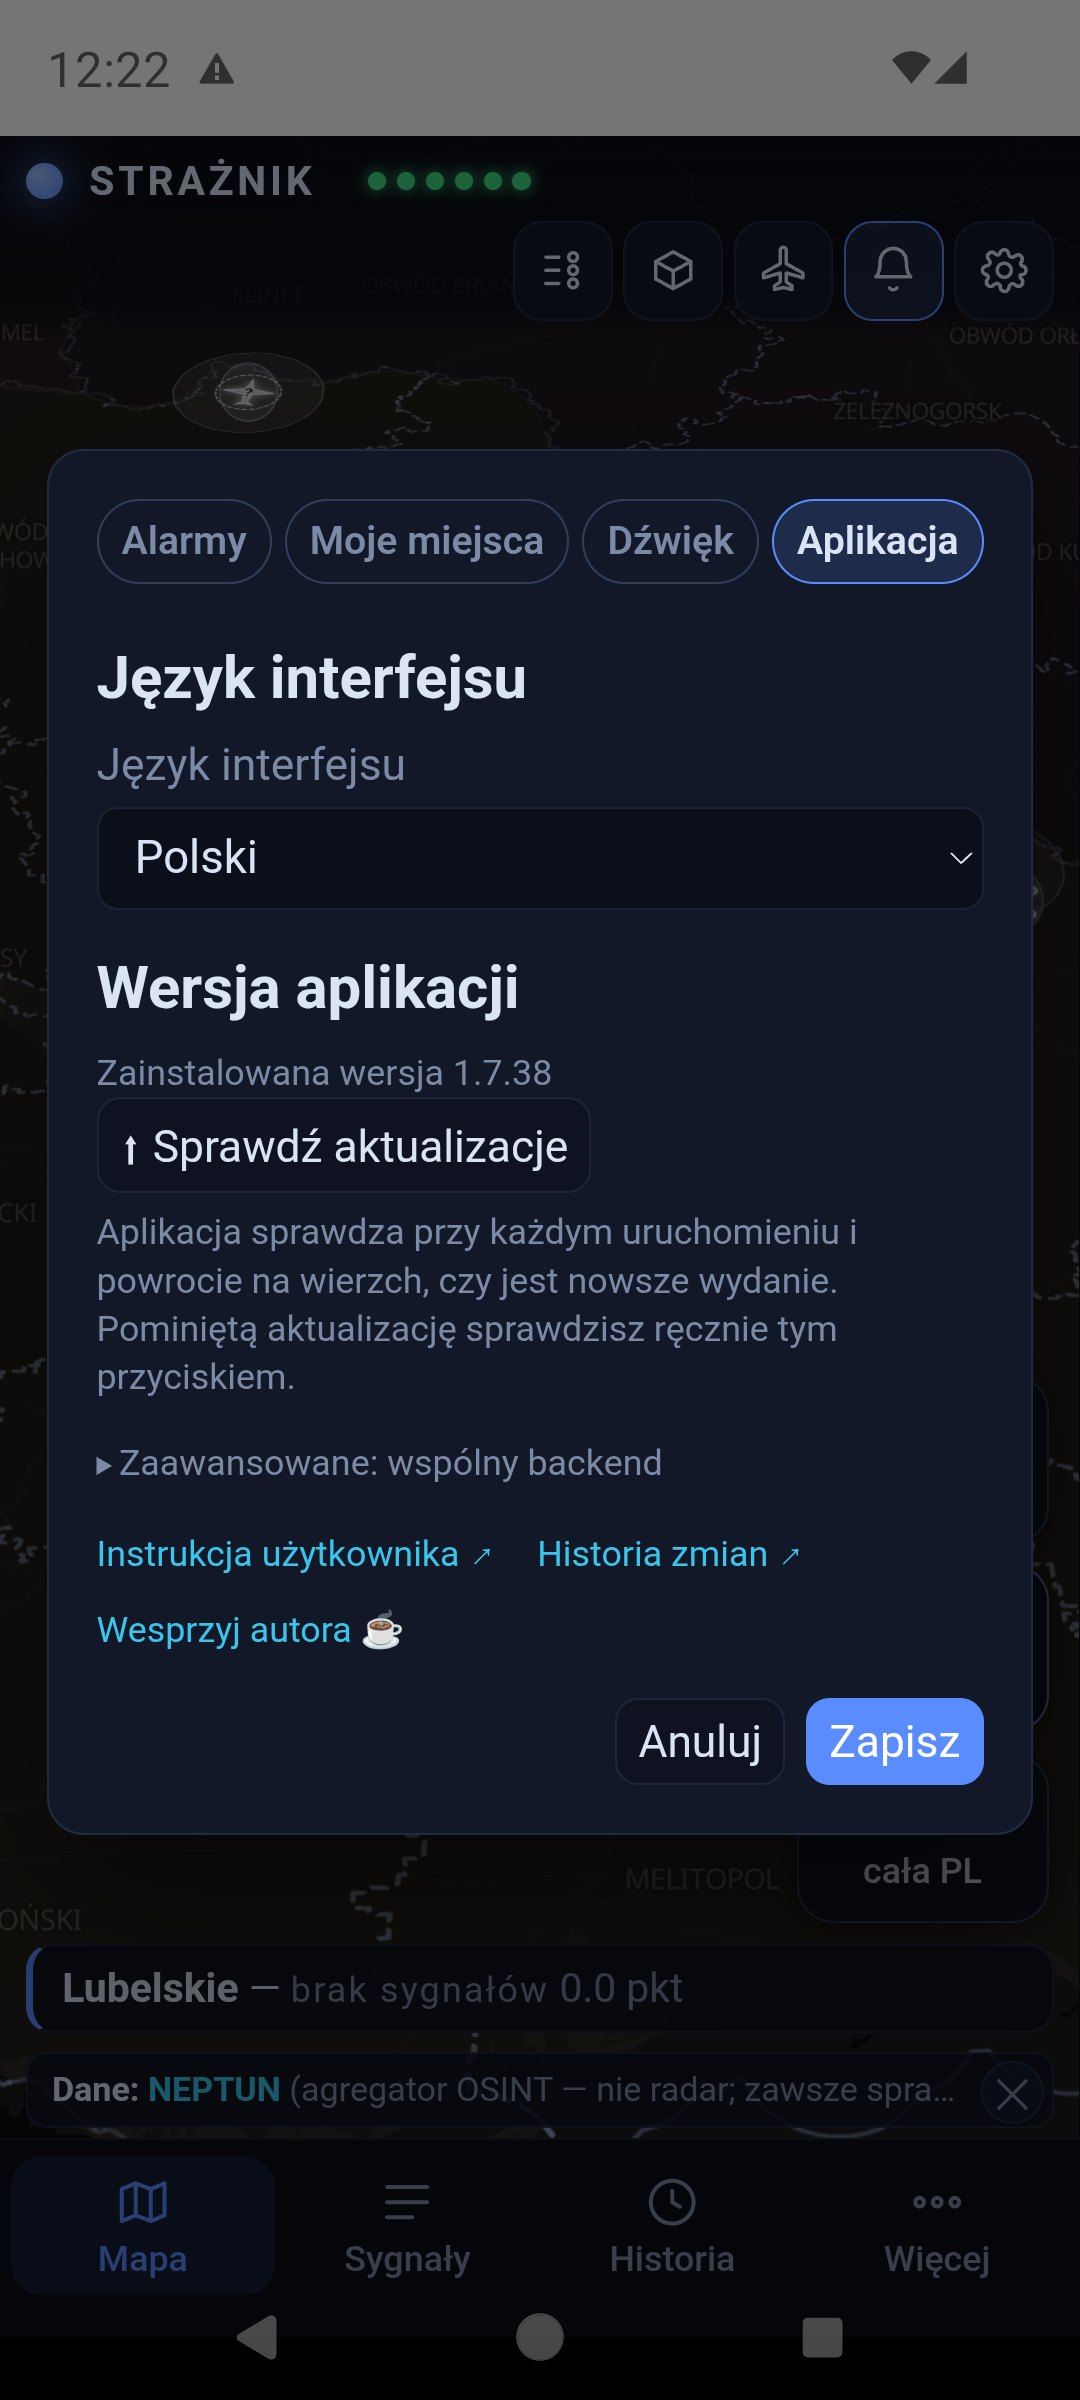
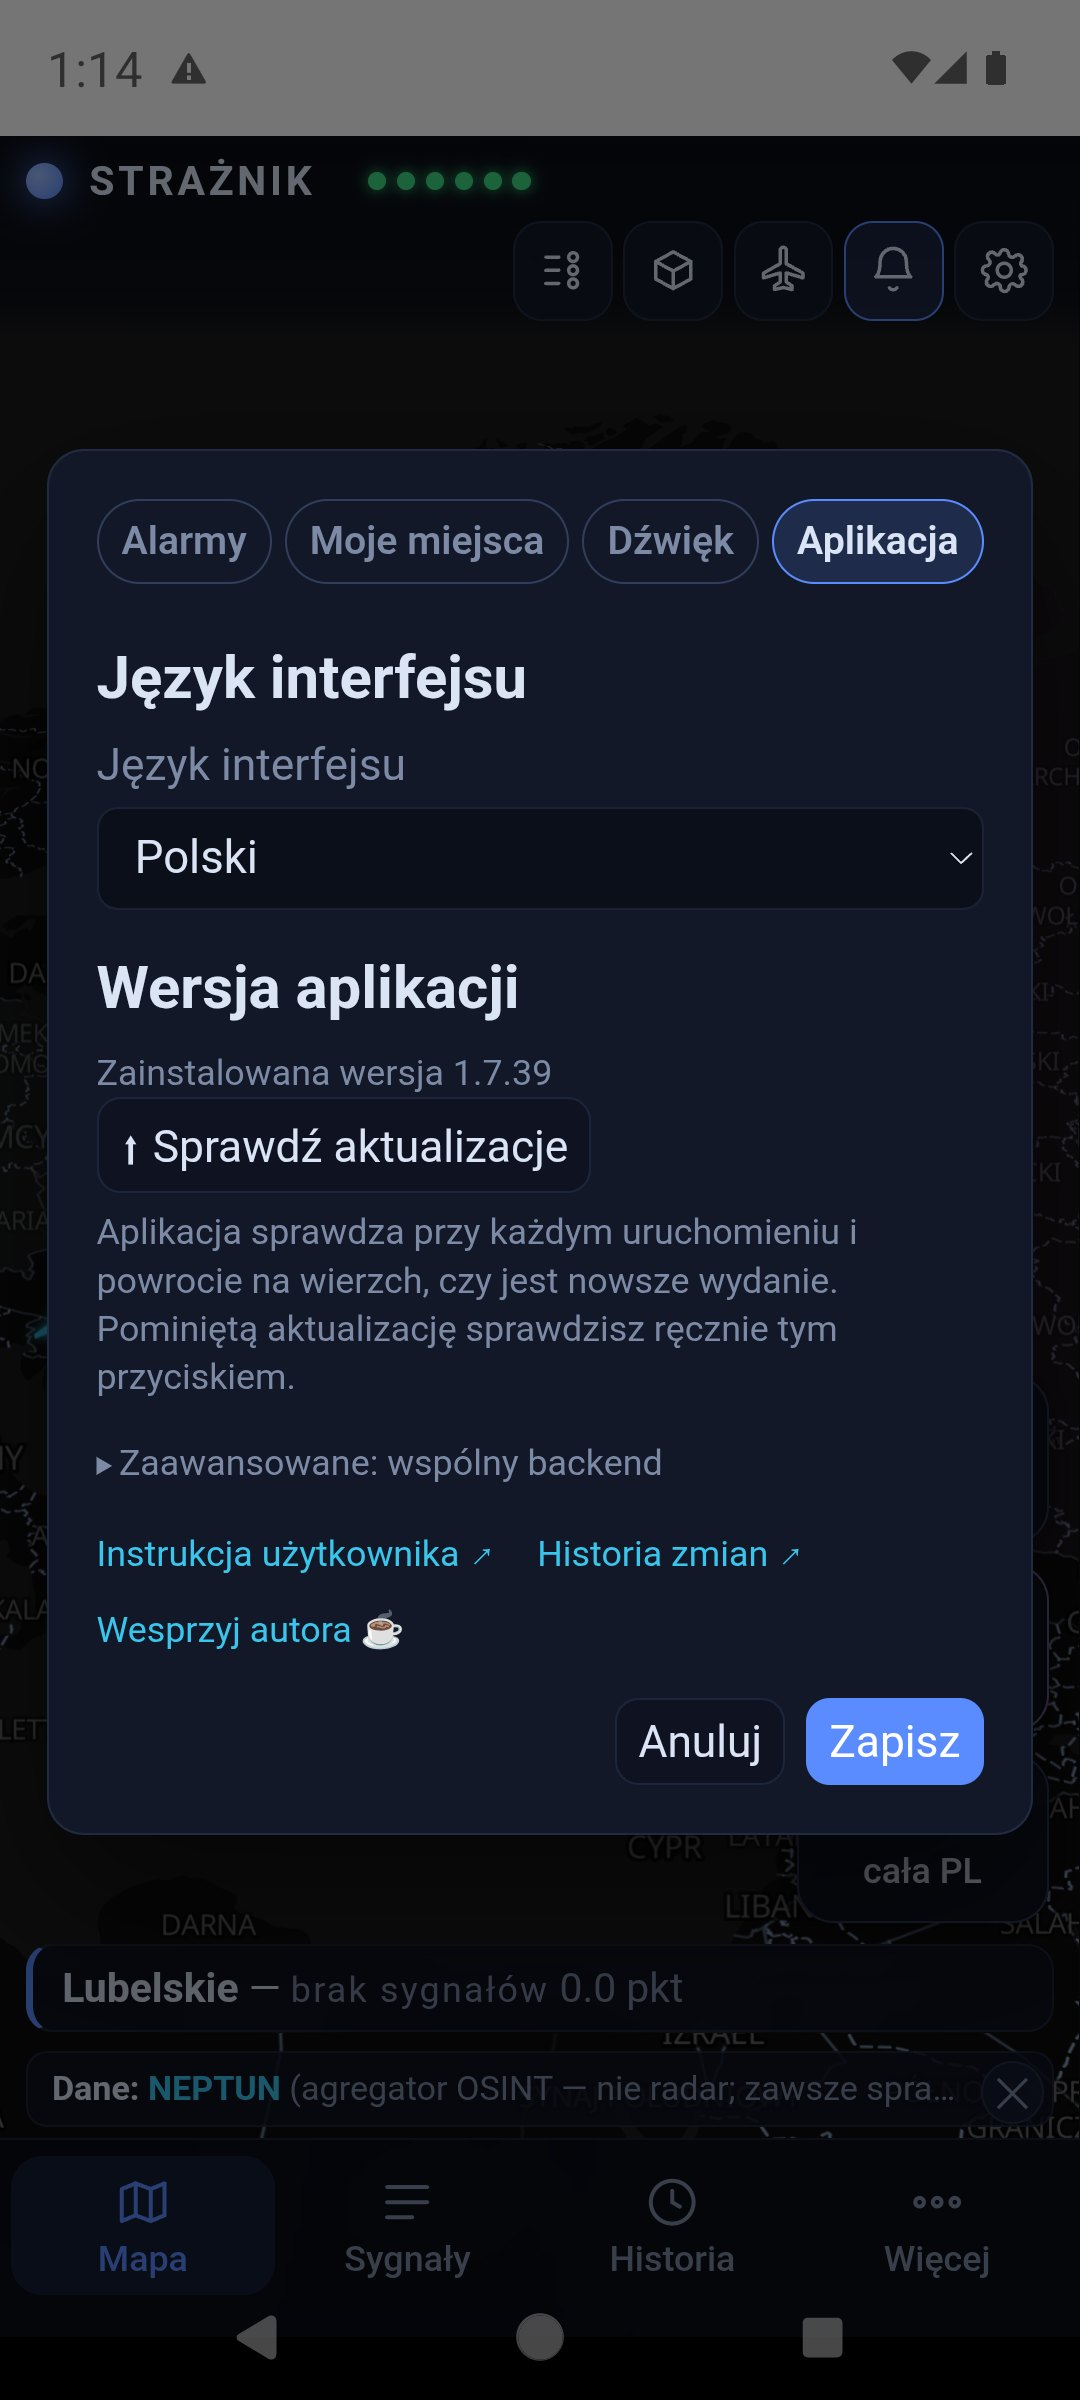
Release 1.7.39: resilience to traffic peaks
The app reconnects after a random delay and, when the server refuses a live
connection with code 1013, polls the ready state every few seconds and returns
to the WebSocket after one to two minutes. Guide, changelog and versionCode 69.

diff --git a/docs/index.html b/docs/index.html
@@ -3,8 +3,8 @@
 <head>
 <meta charset="utf-8">
 <meta name="viewport" content="width=device-width, initial-scale=1">
-<title>Strażnik 1.7.38 — instrukcja użytkownika</title>
-<meta name="description" content="Instrukcja Strażnika 1.7.38: instalacja, Moje miejsca, mapa i strefy PAŻP, panel sygnałów, historia, alarmy, powiadomienia w przeglądarce i punktacja. Zrzuty z aktualnej wersji.">
+<title>Strażnik 1.7.39 — instrukcja użytkownika</title>
+<meta name="description" content="Instrukcja Strażnika 1.7.39: instalacja, Moje miejsca, mapa i strefy PAŻP, panel sygnałów, historia, alarmy, powiadomienia w przeglądarce i punktacja. Zrzuty z aktualnej wersji.">
 <link rel="canonical" href="https://cukierrro.github.io/Straznik/">
 <link rel="alternate" hreflang="pl" href="https://cukierrro.github.io/Straznik/">
 <link rel="alternate" hreflang="en" href="https://cukierrro.github.io/Straznik/en.html">
@@ -33,11 +33,11 @@
   <div class="languages" aria-label="Język instrukcji"><a href="index.html" lang="pl" aria-current="page">PL</a><a href="en.html" lang="en" hreflang="en">EN</a></div>
 </div></nav>
 <header class="hero"><div class="wrap hero-grid">
-  <div><div class="eyebrow">Instrukcja użytkownika · wersja 1.7.38</div>
+  <div><div class="eyebrow">Instrukcja użytkownika · wersja 1.7.39</div>
     <h1>Sytuacja na mapie.<br>Źródła za każdym sygnałem.</h1>
     <p class="lead">Strażnik łączy publiczne informacje o zagrożeniach z powietrza i pokazuje ich punktację dla polskich województw. Działa na Androidzie i w przeglądarce.</p>
     <div class="actions"><a class="button primary" href="https://github.com/cukierrro/Straznik/releases/latest/download/Straznik.apk">↓ Pobierz aplikację</a><a class="button" href="https://straznik.eu">Otwórz mapę</a></div>
-    <p class="fineprint">Instrukcja opisuje wyłącznie bieżącą wersję 1.7.38. Wszystkie zrzuty wykonano 13 września 2026 na Pixelu 7 z Androidem 14, na żywych danych. Co zmieniało się w kolejnych wydaniach, znajdziesz w <a href="zmiany.html">historii zmian</a>. Dotknij zdjęcia, aby otworzyć je w pełnym rozmiarze.</p>
+    <p class="fineprint">Instrukcja opisuje wyłącznie bieżącą wersję 1.7.39. Wszystkie zrzuty wykonano 13 września 2026 na Pixelu 7 z Androidem 14, na żywych danych. Co zmieniało się w kolejnych wydaniach, znajdziesz w <a href="zmiany.html">historii zmian</a>. Dotknij zdjęcia, aby otworzyć je w pełnym rozmiarze.</p>
   </div>
   <a class="shot-link" href="screens/1737/start-pl.jpg"><img src="screens/1737/start-pl.jpg" width="1080" height="2400" alt="Ekran startowy Strażnika: mapa Polski i Ukrainy, sześć zielonych diod źródeł, ikony u góry, kafelki mój region, strefy i cała PL oraz dolne zakładki Mapa, Sygnały, Historia, Więcej"></a>
 </div></header>
@@ -75,9 +75,9 @@
       <h3>Aktualizacja z poziomu aplikacji</h3>
       <p>Strażnik sprawdza nowe wydanie przy każdym uruchomieniu i przy powrocie na wierzch (nie częściej niż co 30 minut). Okno aktualizacji pokazuje numer wersji i listę zmian. Ręcznie: <kbd>⚙</kbd> → <kbd>Aplikacja</kbd> → <kbd>⬆ Sprawdź aktualizacje</kbd>.</p>
       <p>Przy zwykłej aktualizacji możesz wybrać <kbd>Później</kbd>. Po wybraniu instalacji aplikacja pobiera plik, sprawdza jego sumę SHA-256 i przekazuje go Androidowi do zatwierdzenia. Instaluj nowe wydanie na istniejące — ustawienia i Moje miejsca zostają.</p>
-      <div class="note"><b>Która wersja jest u Ciebie?</b> <kbd>⚙</kbd> → zakładka <kbd>Aplikacja</kbd> → „Zainstalowana wersja”. Najnowsze wydanie to <b>1.7.38</b>. Na dole zakładki są odnośniki do tej instrukcji, historii zmian i wsparcia autora.</div>
+      <div class="note"><b>Która wersja jest u Ciebie?</b> <kbd>⚙</kbd> → zakładka <kbd>Aplikacja</kbd> → „Zainstalowana wersja”. Najnowsze wydanie to <b>1.7.39</b>. Na dole zakładki są odnośniki do tej instrukcji, historii zmian i wsparcia autora.</div>
     </div>
-    <figure><a class="shot-link" href="screens/1737/set-aplikacja-pl.jpg"><img loading="lazy" src="screens/1737/set-aplikacja-pl.jpg" width="1080" height="2400" alt="Ustawienia, zakładka Aplikacja: język interfejsu, zainstalowana wersja 1.7.38, przycisk Sprawdź aktualizacje, rozwijane Zaawansowane i odnośniki do instrukcji, historii zmian i wsparcia autora"></a><figcaption><kbd>⚙</kbd> → <kbd>Aplikacja</kbd>: język, wersja, aktualizacje.</figcaption></figure>
+    <figure><a class="shot-link" href="screens/1737/set-aplikacja-pl.jpg"><img loading="lazy" src="screens/1737/set-aplikacja-pl.jpg" width="1080" height="2400" alt="Ustawienia, zakładka Aplikacja: język interfejsu, zainstalowana wersja 1.7.39, przycisk Sprawdź aktualizacje, rozwijane Zaawansowane i odnośniki do instrukcji, historii zmian i wsparcia autora"></a><figcaption><kbd>⚙</kbd> → <kbd>Aplikacja</kbd>: język, wersja, aktualizacje.</figcaption></figure>
   </div>
 </section>
 

diff --git a/docs/en.html b/docs/en.html
@@ -3,8 +3,8 @@
 <head>
 <meta charset="utf-8">
 <meta name="viewport" content="width=device-width, initial-scale=1">
-<title>Strażnik 1.7.38 — user guide</title>
-<meta name="description" content="Strażnik 1.7.38 user guide: installation, My places, the map and PAŻP zones, the signals panel, history, alerts, browser notifications and scoring. Screenshots from the current version.">
+<title>Strażnik 1.7.39 — user guide</title>
+<meta name="description" content="Strażnik 1.7.39 user guide: installation, My places, the map and PAŻP zones, the signals panel, history, alerts, browser notifications and scoring. Screenshots from the current version.">
 <link rel="canonical" href="https://cukierrro.github.io/Straznik/en.html">
 <link rel="alternate" hreflang="pl" href="https://cukierrro.github.io/Straznik/">
 <link rel="alternate" hreflang="en" href="https://cukierrro.github.io/Straznik/en.html">
@@ -33,11 +33,11 @@
   <div class="languages" aria-label="Guide language"><a href="index.html" lang="pl" hreflang="pl">PL</a><a href="en.html" lang="en" aria-current="page">EN</a></div>
 </div></nav>
 <header class="hero"><div class="wrap hero-grid">
-  <div><div class="eyebrow">User guide · version 1.7.38</div>
+  <div><div class="eyebrow">User guide · version 1.7.39</div>
     <h1>The situation on a map.<br>The sources behind each signal.</h1>
     <p class="lead">Strażnik combines public information about airborne threats and shows a score for each Polish province. It runs on Android and in a web browser.</p>
     <div class="actions"><a class="button primary" href="https://github.com/cukierrro/Straznik/releases/latest/download/Straznik.apk">↓ Download the app</a><a class="button" href="https://straznik.eu">Open the map</a></div>
-    <p class="fineprint">This guide describes only the current version, 1.7.38. All screenshots were taken on 13 September 2026 on a Pixel 7 with Android 14, using live data. What changed from release to release is in the <a href="zmiany-en.html">changelog</a>. Tap a screenshot to open it full size.</p>
+    <p class="fineprint">This guide describes only the current version, 1.7.39. All screenshots were taken on 13 September 2026 on a Pixel 7 with Android 14, using live data. What changed from release to release is in the <a href="zmiany-en.html">changelog</a>. Tap a screenshot to open it full size.</p>
   </div>
   <a class="shot-link" href="screens/1737/start-en.jpg"><img src="screens/1737/start-en.jpg" width="1080" height="2400" alt="Strażnik start screen: map of Poland and Ukraine, six green source indicators, icons at the top, the my region, zones and whole PL tiles, and the Map, Signals, History, More tabs"></a>
 </div></header>
@@ -75,9 +75,9 @@
       <h3>Updating from inside the app</h3>
       <p>Strażnik checks for a new release at every launch and whenever it returns to the foreground (at most every 30 minutes). The update window shows the version number and the list of changes. Manually: <kbd>⚙</kbd> → <kbd>App</kbd> → <kbd>⬆ Check for updates</kbd>.</p>
       <p>For an ordinary update you can choose <kbd>Later</kbd>. When you install, the app downloads the file, verifies its SHA-256 checksum and hands it to Android for confirmation. Install the new release over the old one — settings and My places are kept.</p>
-      <div class="note"><b>Which version do you have?</b> <kbd>⚙</kbd> → <kbd>App</kbd> tab → “Installed version”. The latest release is <b>1.7.38</b>. At the bottom of the tab are links to this guide, the changelog and supporting the author.</div>
+      <div class="note"><b>Which version do you have?</b> <kbd>⚙</kbd> → <kbd>App</kbd> tab → “Installed version”. The latest release is <b>1.7.39</b>. At the bottom of the tab are links to this guide, the changelog and supporting the author.</div>
     </div>
-    <figure><a class="shot-link" href="screens/1737/set-aplikacja-en.jpg"><img loading="lazy" src="screens/1737/set-aplikacja-en.jpg" width="1080" height="2400" alt="Settings, App tab: interface language English, installed version 1.7.38, Check for updates button, collapsed Advanced section and links to the user guide, changelog and support"></a><figcaption><kbd>⚙</kbd> → <kbd>App</kbd>: language, version, updates.</figcaption></figure>
+    <figure><a class="shot-link" href="screens/1737/set-aplikacja-en.jpg"><img loading="lazy" src="screens/1737/set-aplikacja-en.jpg" width="1080" height="2400" alt="Settings, App tab: interface language English, installed version 1.7.39, Check for updates button, collapsed Advanced section and links to the user guide, changelog and support"></a><figcaption><kbd>⚙</kbd> → <kbd>App</kbd>: language, version, updates.</figcaption></figure>
   </div>
 </section>
 

diff --git a/docs/zmiany.html b/docs/zmiany.html
@@ -39,6 +39,16 @@
   <p class="fineprint">Wersję zainstalowaną na telefonie sprawdzisz w aplikacji: <kbd>⚙</kbd> → zakładka <kbd>Aplikacja</kbd> → „Wersja aplikacji”. Tam też jest przycisk <kbd>⬆ Sprawdź aktualizacje</kbd>.</p>
 </div></header>
 <main id="content" class="wrap">
+<section id="v1-7-39">
+  <h2>1.7.39 — Odporność na szczyty ruchu</h2>
+  <p class="fineprint">Wydanie 1.7.39 · 13 września 2026 · <a href="https://github.com/cukierrro/Straznik/releases/tag/v1.7.39">Pełny opis wydania</a></p>
+  <ul>
+    <li>13 września o 04:54 serwer został zatrzymany przez brak pamięci w szczycie wejść i wstał po 5 sekundach. Stan, historia i strefy są teraz przygotowywane zawczasu i podawane przez Cloudflare, a serwer sam odrzuca nadmiar wejść na stronę, zanim zabraknie pamięci.</li>
+    <li>Po utracie połączenia aplikacja łączy się ponownie z losowym opóźnieniem, żeby tysiące telefonów nie wracały w tej samej sekundzie.</li>
+    <li>Gdy serwer jest przeciążony, aplikacja pobiera stan co kilka sekund zamiast stałego połączenia i po 1–2 minutach próbuje wrócić.</li>
+    <li>Powiadomienia i zbieranie danych działają niezależnie od ruchu na stronie.</li>
+  </ul>
+</section>
 <section id="v1-7-38">
   <h2>1.7.38 — Czytelny kurs dronów, puls liczonych obiektów, obwody UA i Bałtyk</h2>
   <p class="fineprint">Wydanie 1.7.38 · 13 września 2026 · <a href="https://github.com/cukierrro/Straznik/releases/tag/v1.7.38">Pełny opis wydania</a></p>

diff --git a/docs/zmiany-en.html b/docs/zmiany-en.html
@@ -39,6 +39,16 @@
   <p class="fineprint">To see which version your phone has, open the app: <kbd>⚙</kbd> → the <kbd>App</kbd> tab → “App version”. The <kbd>⬆ Check for updates</kbd> button is right there too.</p>
 </div></header>
 <main id="content" class="wrap">
+<section id="v1-7-39">
+  <h2>1.7.39 — Resilience to traffic peaks</h2>
+  <p class="fineprint">Release 1.7.39 · 13 September 2026 · <a href="https://github.com/cukierrro/Straznik/releases/tag/v1.7.39">Full release notes</a></p>
+  <ul>
+    <li>On 13 September at 04:54 the server was stopped for lack of memory during a traffic peak and came back after 5 seconds. State, history and zones are now prepared in advance and served through Cloudflare, and the server itself turns away excess website traffic before memory runs out.</li>
+    <li>After losing the connection, the app reconnects after a random delay so thousands of phones do not return in the same second.</li>
+    <li>When the server is overloaded, the app fetches the state every few seconds instead of keeping a live connection, and tries to return after 1–2 minutes.</li>
+    <li>Notifications and data collection work independently of website traffic.</li>
+  </ul>
+</section>
 <section id="v1-7-38">
   <h2>1.7.38 — Readable drone heading, pulsing counted objects, UA oblasts and the Baltics</h2>
   <p class="fineprint">Release 1.7.38 · 13 September 2026 · <a href="https://github.com/cukierrro/Straznik/releases/tag/v1.7.38">Full release notes</a></p>

diff --git a/frontend/index.html b/frontend/index.html
@@ -53,7 +53,7 @@ document.documentElement.classList.add(
 <link rel="icon" type="image/png" sizes="512x512" href="assets/icon-512.png">
 <link rel="apple-touch-icon" href="assets/icon-192.png">
 <link rel="stylesheet" href="assets/vendor/maplibre-gl.css">
-<link rel="stylesheet" href="style.css?v=1.7.38-2">
+<link rel="stylesheet" href="style.css?v=1.7.39-1">
 </head>
 <body>
 
@@ -660,11 +660,11 @@ document.documentElement.classList.add(
      Cloudflare, więc po każdym wydaniu wystarczy podbić ?v= i przeglądarki
      dostają nowe app.js/engine.js OD RAZU, bez ręcznego czyszczenia cache CF.
      Podbijaj ?v= razem z versionName w build.gradle. -->
-<script src="i18n.js?v=1.7.38-2"></script>
-<script src="engine.js?v=1.7.38-2"></script>
+<script src="i18n.js?v=1.7.39-1"></script>
+<script src="engine.js?v=1.7.39-1"></script>
 <script src="aircraft-photo-catalog.js?v=1.7.19"></script>
 <script src="aircraft-photos.js?v=1.7.19"></script>
 <script src="places.js?v=1.7.19-4"></script>
-<script src="app.js?v=1.7.38-2"></script>
+<script src="app.js?v=1.7.39-1"></script>
 </body>
 </html>

diff --git a/scripts/build_changelog.py b/scripts/build_changelog.py
@@ -16,6 +16,19 @@ DOCS = ROOT / "docs"
 # (wersja, data PL, data EN, tytuł PL, tytuł EN, punkty PL, punkty EN, zrzuty)
 # Zrzut: (plik, alt PL, alt EN, podpis PL, podpis EN)
 RELEASES = [
+    ("1.7.39", "13 września 2026", "13 September 2026",
+     "Odporność na szczyty ruchu",
+     "Resilience to traffic peaks",
+     ["13 września o 04:54 serwer został zatrzymany przez brak pamięci w szczycie wejść i wstał po 5 sekundach. Stan, historia i strefy są teraz przygotowywane zawczasu i podawane przez Cloudflare, a serwer sam odrzuca nadmiar wejść na stronę, zanim zabraknie pamięci.",
+      "Po utracie połączenia aplikacja łączy się ponownie z losowym opóźnieniem, żeby tysiące telefonów nie wracały w tej samej sekundzie.",
+      "Gdy serwer jest przeciążony, aplikacja pobiera stan co kilka sekund zamiast stałego połączenia i po 1–2 minutach próbuje wrócić.",
+      "Powiadomienia i zbieranie danych działają niezależnie od ruchu na stronie."],
+     ["On 13 September at 04:54 the server was stopped for lack of memory during a traffic peak and came back after 5 seconds. State, history and zones are now prepared in advance and served through Cloudflare, and the server itself turns away excess website traffic before memory runs out.",
+      "After losing the connection, the app reconnects after a random delay so thousands of phones do not return in the same second.",
+      "When the server is overloaded, the app fetches the state every few seconds instead of keeping a live connection, and tries to return after 1–2 minutes.",
+      "Notifications and data collection work independently of website traffic."],
+     []),
+
     ("1.7.38", "13 września 2026", "13 September 2026",
      "Czytelny kurs dronów, puls liczonych obiektów, obwody UA i Bałtyk",
      "Readable drone heading, pulsing counted objects, UA oblasts and the Baltics",

diff --git a/docs/RELEASE_1.7.39.md b/docs/RELEASE_1.7.39.md
@@ -1,0 +1,15 @@
+# Strażnik 1.7.39 — odporność na szczyty ruchu
+
+- Stan, historia i strefy są przygotowywane zawczasu i podawane przez Cloudflare — serwer nie liczy ich przy każdym wejściu.
+- Serwer sam odrzuca nadmiar wejść na stronę, zanim zabraknie pamięci; powiadomienia i zbieranie danych działają dalej.
+- Po utracie połączenia aplikacja łączy się ponownie z losowym opóźnieniem, żeby tysiące telefonów nie wracały w tej samej sekundzie.
+- Gdy serwer jest przeciążony, aplikacja pobiera stan co kilka sekund i po 1–2 minutach próbuje wrócić do stałego połączenia.
+
+## Dlaczego
+
+13 września o 04:54:50, w szczycie porannego ataku, jądro zatrzymało usługę za
+przekroczenie limitu pamięci; po 5 sekundach wstała sama. W szczycie było 2700
+zapytań na minutę i ponad 3300 adresów w 40 minut, a każde wejście składało od nowa
+12-godzinną historię (8,4 MB). Teraz jest ona gotowa zawczasu (420 KB po kompresji)
+i podawana z pamięci Cloudflare. Pomiar na serwerze po zmianach: 4700 zapytań
+o stan na sekundę przy stałym zużyciu pamięci.
